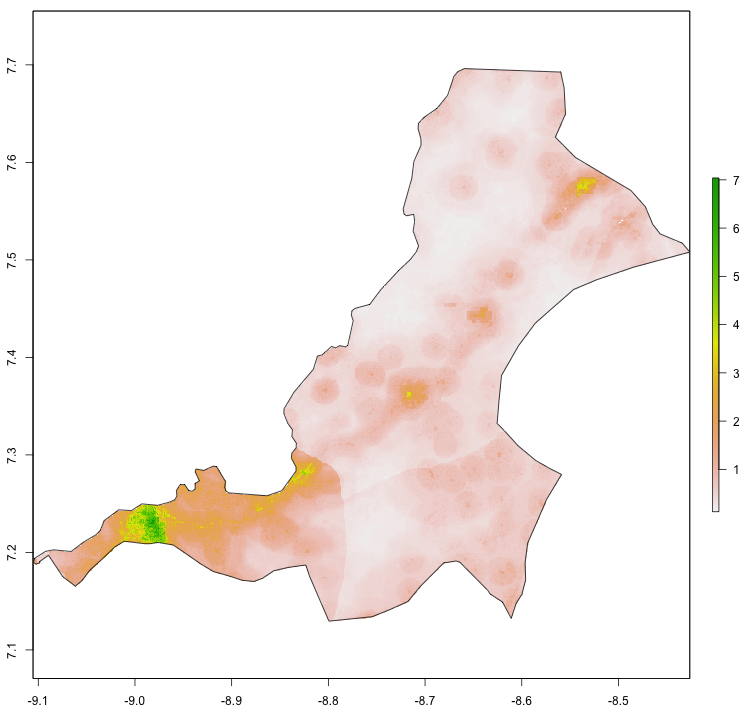
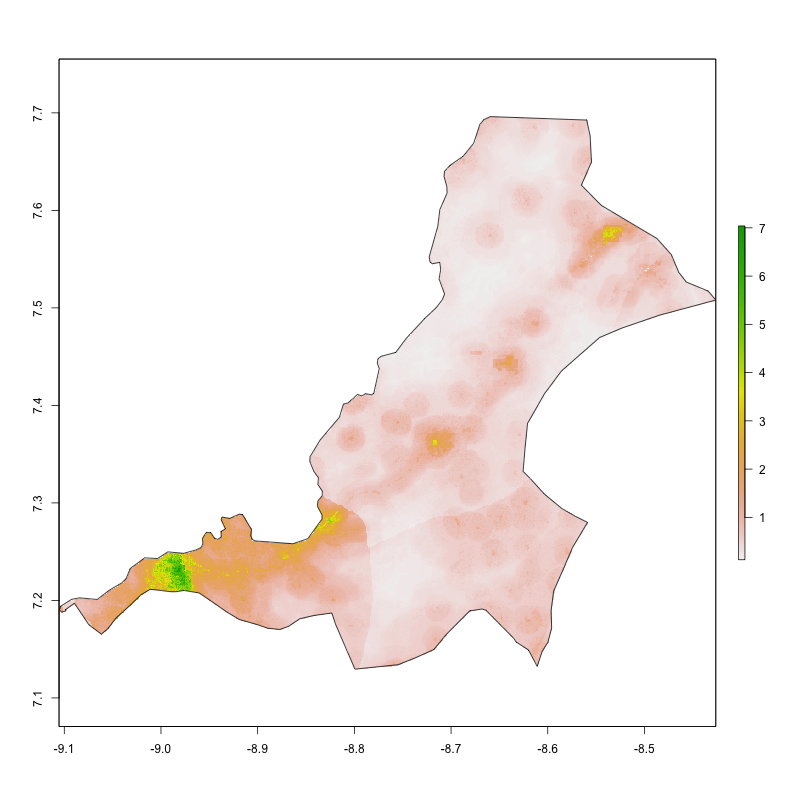
GitBook: [master] one page and 5 assets modified

diff --git a/project-3.-accessibility-to-health-care-through-transportation-facilities/de-facto-description-of-human-settlements.md b/project-3.-accessibility-to-health-care-through-transportation-facilities/de-facto-description-of-human-settlements.md
@@ -61,7 +61,7 @@ dev.off()
 
 The above script produces the following plot as a pdf file in your working directory.  In addition to seeking an adm2 subdivision that is between 100,000 and 200,000 persons, also notice that the area of my selected district is about .7 degree longitude by .6 degrees latitude.  Likewise, select an area that is less than 1 degree longitude by 1 degree latitude.  If you want to increase the size of the area being analyzed and likewise the population residing within that space, you will have an opportuntity to do that later, but for now, start small.
 
-![Population per grid cell throughout Sanniquelleh-Mahn, Liberia](../.gitbook/assets/sm_pop15%20%281%29.png)
+![Population per grid cell throughout Sanniquelleh-Mahn, Liberia](../.gitbook/assets/sm_pop15%20%283%29.png)
 
 For the next step, you will use a slightly older, but very powerful R package called `spatstat`, which is used for all kinds of spatial statistics.  Spatial statistics typically involves much more than simply descriptive statistics, analytical models, and inference, it typically also involves some description and analysis of points, lines and polygons in that space.  For example, one might want to know how to describe a pattern of points that exists throughout a plane, and how it compares to a similarly existing pattern of points that is considered completely spatially randomly dispersed.  Additionally, one might also want to know if there is a spatial relationship with certain points within a point pattern and other points within that point pattern based on attributes of those points or other geospatial features.  In many ways, spatial statistics is just like traditional statistics, with the exception that an additinal layer of spatial and potentially geospatial complexity has been added.  
 
@@ -211,11 +211,11 @@ plot(st_geometry(subpolys), add = TRUE)
 dev.off()
 ```
 
-Most of these polygons are fine to retain, so I'm going to use the `filter()` command to remove only those polygons with populations less than 10 persons.  You may want to increase this value based on your results.  A more thorough analysis might involve considering population density in setting this threshold, but for now let's just use an _ad hoc_ measure.  
+I'm going to use the `filter()` command to remove only those polygons with populations less than 750 persons.  You may want to increase or decrease this value based on your results.  A more thorough analysis might involve considering population density in setting this threshold, but for now just use an _ad hoc_ measure.  
 
 ```text
 subpolys_filtered <- subpolys %>%
-  filter(pop15 > 10)
+  filter(pop15 > 750)
 ```
 
 You can compare earlier results with the newly produced filtered subpolys.
@@ -226,6 +226,98 @@ plot(sm_dens, main = NULL)
 plot(st_geometry(subpolys_filtered), add = TRUE)
 dev.off()
 ```
+
+We have evalutated the outside polygons by area and population, now let's likewise evaluate the inside polygons we have already created by population.  To transform a geometric collection into individual polygons use the `st_geometric_extract()` command.  Follow that by again extracting population values then aggregating and summing their values by each polygons ID.  Finally, add those values as a column to your inside\_polys `sf` object.
+
+```text
+inside_polys <- st_collection_extract(inside_polys, "POLYGON")
+
+ips_extract <- raster::extract(sm_pop15, inside_polys, df = TRUE)
+
+ips_totals <- ips_extract %>%
+  group_by(ID) %>%
+  summarize(pop15 = sum(lbr_ppp_2015, na.rm = TRUE))
+
+inside_polys <- inside_polys %>%
+  add_column(pop15 = ips_totals$pop15)
+```
+
+As with the outside polygons, set a value to filter population densities that do not qualify as urbanized.
+
+```text
+inside_polys_filtered <- inside_polys %>%
+  filter(pop15 > 150)
+```
+
+We finally at the point where we will union the two sets of polygons, extract all population values and designate our de facto human settlements and urbanized areas.  First use the `st_union()` command to combine both sets of polygons into a single `sf` feature.
+
+```text
+uas <- st_union(inside_polys_filtered, subpolys_filtered)
+```
+
+Use the `st_cast()` command to transform any multipolygons into individual entities.
+
+```text
+urban_areas <- st_cast(uas, "POLYGON")
+```
+
+At this point, most of the columns in our `urban_areas` are nonsensical and can be simply removed.  Just be sure to keep the geometry.
+
+```text
+urban_areas[ ,1:19] <- NULL
+```
+
+Have a quick look at the urban area polygons and density.
+
+![](../.gitbook/assets/sm_pop15.png)
+
+Extract all population values and add them to your urban\_areas polygons.
+
+```text
+uas_extract <- raster::extract(sm_pop15, urban_areas, df = TRUE)
+
+uas_totals <- uas_extract %>%
+  group_by(ID) %>%
+  summarize(pop15 = sum(lbr_ppp_2015, na.rm = TRUE))
+
+urban_areas <- urban_areas %>%
+  add_column(pop15 = uas_totals$pop15)
+```
+
+Finally, use `ggplot()` to plot each of your de facto human settlements and urban areas.
+
+```text
+ggplot() +
+  geom_sf(data = sm,
+          size = 0.75,
+          color = "gray50",
+          fill = "gold3",
+          alpha = 0.15) +
+  geom_sf(data = urban_areas,
+          size = 0.25,
+          color = "gray50",
+          alpha = 0.5)
+```
+
+Use `ggsave()` to save your plot.
+
+![](../.gitbook/assets/sm.png)
+
+
+
+
+
+
+
+
+
+
+
+
+
+
+
+
 
 
 
